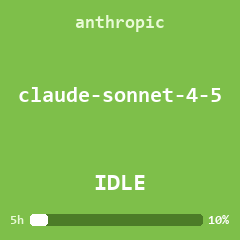
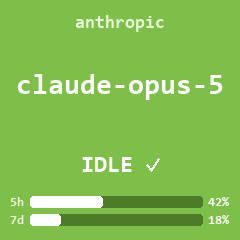
Mark each status with a glyph, and show the real usage figures
The status word now carries a mark: a tick for idle, a question mark for
waiting, and a spinner for working that cycles through / - \ | the way a DOS
loading indicator did.

The spinner is an animated GIF rather than a sequence pushed frame by frame.
The device loops GIFs on its own, so a spinner that turns for an hour costs one
upload; driving it from the daemon would mean tens of thousands of flash writes
in that same hour, on a part with a finite number of erase cycles.

The tick is drawn with lines instead of typed. Checking the font first was
worth it: U+2713 is not in Consolas and would have rendered as an empty box. It
is stroked at the weight of the surrounding text and anchored to the cap box of
the word beside it -- the first attempt centred it in the line box instead,
which sat it visibly below the baseline on the real display.

Usage percentages are no longer rounded to five-point steps. That was there to
keep the frame cache converging, and dropping it means a new upload each time a
figure moves. The trade is deliberate and now written down, along with how to
put the rounding back.

RENDER_VERSION carries these changes, since the filename is derived from the
data and would otherwise keep serving the old artwork. Also fixes gmctl show
and the installer's final check, which built a still JPEG but named it .gif
once the extension started depending on the status.

README screenshots regenerated, with the working state as the animation itself.

diff --git a/geekmagic/render.py b/geekmagic/render.py
@@ -26,11 +26,33 @@ from PIL import Image, ImageDraw, ImageFont
 
 SIZE = 240
 
-# Bumping this invalidates every frame already uploaded to the device.
-RENDER_VERSION = 4
+# Bumping this invalidates every frame already uploaded to the device. Needed
+# whenever the artwork changes without the data behind it changing, since the
+# filename is derived from the data alone.
+RENDER_VERSION = 7
 
-# Rounding step for the usage percentages, in points.
-USAGE_BUCKET = 5
+# Rounding step for the usage percentages, in points. At 1 the bars show the
+# real figure. See the note in frame_key about what that costs.
+USAGE_BUCKET = 1
+
+# The mark drawn beside the status word.
+#
+# "check" is drawn with lines rather than typed, because the obvious character
+# for it (U+2713) is not in Consolas and would come out as an empty box. The
+# rest are plain ASCII, present in every monospace font.
+#
+# working cycles through the four, which is what makes the spinner: the frames
+# become an animated GIF, so the device loops it by itself and nothing is
+# rewritten while it spins.
+STATUS_GLYPHS: dict[str, tuple[str, ...]] = {
+    "idle": ("check",),
+    "waiting": ("?",),
+    "working": ("/", "-", "\\", "|"),
+    "error": ("×",),
+}
+
+# Milliseconds per spinner frame.
+SPINNER_MS = 130
 
 
 @dataclass(frozen=True)
@@ -84,6 +106,18 @@ def _font(size: int, override: str | None = None):
 def _text_size(draw: ImageDraw.ImageDraw, text: str, font) -> tuple[int, int]:
     left, top, right, bottom = draw.textbbox((0, 0), text, font=font)
     return right - left, bottom - top
+
+
+def _cap_box(draw: ImageDraw.ImageDraw, font) -> tuple[int, int]:
+    """Where a capital letter actually sits, as (offset from the draw origin,
+    height).
+
+    PIL places text by the top of its line box, not by the top of the letters,
+    so anything drawn by hand next to a word has to account for that gap or it
+    ends up sitting lower than the text it belongs to.
+    """
+    _, top, _, bottom = draw.textbbox((0, 0), "M", font=font)
+    return top, bottom - top
 
 
 def _wrap(text: str, max_chars: int) -> list[str]:
@@ -190,6 +224,24 @@ def _draw_bar(draw, y: int, label: str, pct: int, style: Style, font_override) -
         )
 
 
+def _draw_check(draw, x: int, y: int, height: int, colour, weight: int) -> None:
+    """A tick drawn to match the surrounding text rather than typed.
+
+    Sized from the cap height of the status word and stroked at the same weight,
+    so it reads as part of the same lettering even though no glyph exists for it.
+    """
+    # Inset from the cap box so the stroke's own thickness does not spill past
+    # the letters it sits next to.
+    draw.line(
+        [
+            (x, y + height * 0.52),
+            (x + height * 0.38, y + height * 0.90),
+            (x + height * 0.90, y + height * 0.10),
+        ],
+        fill=colour, width=weight, joint="curve",
+    )
+
+
 def _usage_buckets(usage: dict | None) -> dict[str, int]:
     """Pull out the already-rounded percentages, skipping absent windows."""
     out: dict[str, int] = {}
@@ -212,6 +264,35 @@ def render(
     status: str,
     usage: dict | None = None,
     font_override: str | None = None,
+) -> Image.Image:
+    """A single still image: the first frame of the sequence."""
+    return render_frames(provider, model, status, usage, font_override)[0]
+
+
+def render_frames(
+    provider: str,
+    model: str,
+    status: str,
+    usage: dict | None = None,
+    font_override: str | None = None,
+) -> list[Image.Image]:
+    """One image per glyph position: a single frame, or four for the spinner."""
+    glyphs = STATUS_GLYPHS.get(status.lower(), ())
+    if not glyphs:
+        return [_render_one(provider, model, status, usage, font_override, None)]
+    return [
+        _render_one(provider, model, status, usage, font_override, glyph)
+        for glyph in glyphs
+    ]
+
+
+def _render_one(
+    provider: str,
+    model: str,
+    status: str,
+    usage: dict | None,
+    font_override: str | None,
+    glyph: str | None,
 ) -> Image.Image:
     style = STYLES.get(status.lower(), DEFAULT_STYLE)
     img = Image.new("RGB", (SIZE, SIZE), style.bg)
@@ -242,17 +323,34 @@ def render(
             y += p_lh
         top_used = y
 
-    # --- status, just above the bars
+    # --- status, just above the bars, with its mark beside it
+    #
+    # The mark is laid out as a fixed-width slot whether or not this frame has
+    # one, so the word does not shift as the spinner turns.
     s_lines, s_font, s_lh = _fit_block(
         draw, status.upper(), inner_w, 32, range(14, 25), font_override
     )
+    char_w, _ = _text_size(draw, "M", s_font)
+    cap_top, cap_h = _cap_box(draw, s_font)
+    slot = char_w * 2 if glyph else 0     # one space plus one character
     s_h = s_lh * len(s_lines)
     gap = 12 if bar_rows else 20
     y = bars_top - gap - s_h
     status_top = y
-    for line in s_lines:
+    for index, line in enumerate(s_lines):
         w, _ = _text_size(draw, line, s_font)
-        draw.text(((SIZE - w) // 2, y), line, font=s_font, fill=style.fg)
+        left = (SIZE - w - slot) // 2
+        draw.text((left, y), line, font=s_font, fill=style.fg)
+        # Only the last line carries the mark, so a wrapped word keeps it at the end.
+        if glyph and index == len(s_lines) - 1:
+            gx = left + w + char_w
+            if glyph == "check":
+                # Aligned to the cap box of the word beside it, so it sits on
+                # the same baseline instead of hanging below.
+                weight = max(2, round(cap_h / 6))
+                _draw_check(draw, gx, y + cap_top, cap_h, style.fg, weight)
+            else:
+                draw.text((gx, y), glyph, font=s_font, fill=style.fg)
         y += s_lh
 
     # --- model, centred in whatever space is left
@@ -269,6 +367,10 @@ def render(
     return img
 
 
+def is_animated(status: str) -> bool:
+    return len(STATUS_GLYPHS.get(status.lower(), ())) > 1
+
+
 def render_jpeg(provider, model, status, usage=None, font_override=None,
                 quality: int = 88) -> bytes:
     buf = io.BytesIO()
@@ -278,10 +380,43 @@ def render_jpeg(provider, model, status, usage=None, font_override=None,
     return buf.getvalue()
 
 
+def render_gif(provider, model, status, usage=None, font_override=None) -> bytes:
+    """An animated GIF of the whole sequence, looping forever.
+
+    The device plays GIFs on its own, so the spinner costs exactly one upload
+    however long it turns. Driving the animation by pushing a frame every tenth
+    of a second would write to the flash thousands of times an hour.
+    """
+    frames = render_frames(provider, model, status, usage, font_override)
+    # A flat palette keeps this small: the artwork is a handful of solid colours.
+    converted = [f.convert("P", palette=Image.ADAPTIVE, colors=32) for f in frames]
+    buf = io.BytesIO()
+    converted[0].save(
+        buf, format="GIF", save_all=True, append_images=converted[1:],
+        duration=SPINNER_MS, loop=0, optimize=True, disposal=1,
+    )
+    return buf.getvalue()
+
+
+def render_bytes(provider, model, status, usage=None, font_override=None,
+                 quality: int = 88) -> bytes:
+    """Whatever this status needs: an animated GIF, or a still JPEG."""
+    if is_animated(status):
+        return render_gif(provider, model, status, usage, font_override)
+    return render_jpeg(provider, model, status, usage, font_override, quality)
+
+
 def frame_key(provider: str, model: str, status: str, usage: dict | None = None) -> str:
-    """Deterministic filename: same contents, same file, so no rewrites."""
+    """Deterministic filename: same contents, same file, so no rewrites.
+
+    With USAGE_BUCKET at 1 the bars carry the real figure, which means a new
+    file each time a percentage moves. That is the trade the exact numbers cost:
+    a handful of uploads an hour instead of almost none. max_cached_frames keeps
+    the pile on the device bounded.
+    """
     bars = _usage_buckets(usage)
     parts = [str(RENDER_VERSION), provider, model, status]
     parts += [f"{k}{v}" for k, v in sorted(bars.items())]
     raw = "|".join(parts).lower()
-    return "ai_" + hashlib.sha1(raw.encode()).hexdigest()[:10] + ".jpg"
+    suffix = ".gif" if is_animated(status) else ".jpg"
+    return "ai_" + hashlib.sha1(raw.encode()).hexdigest()[:10] + suffix

diff --git a/gmctl.py b/gmctl.py
@@ -16,9 +16,13 @@ from pathlib import Path
 
 sys.path.insert(0, str(Path(__file__).parent))
 
+from PIL import Image  # noqa: E402
+
 from geekmagic import config  # noqa: E402
 from geekmagic.device import DeviceError, SmallTVUltra  # noqa: E402
-from geekmagic.render import frame_key, render, render_jpeg  # noqa: E402
+from geekmagic.render import (  # noqa: E402
+    frame_key, is_animated, render, render_bytes, render_frames,
+)
 
 
 def daemon_post(cfg: dict, path: str, payload: dict) -> None:
@@ -62,23 +66,38 @@ def cmd_preview(cfg, args):
     out = Path(args.out)
     usage = usage_from_args(args)
     font = cfg.get("font_path") or None
-    render(args.provider, args.model, args.status, usage, font).save(out)
-    jpeg = render_jpeg(args.provider, args.model, args.status, usage, font)
-    print(f"preview written to {out}  ({len(jpeg)} B as JPEG)")
-    print(f"name on the device: {frame_key(args.provider, args.model, args.status, usage)}")
+    name = frame_key(args.provider, args.model, args.status, usage)
+    blob = render_bytes(args.provider, args.model, args.status, usage, font)
+
+    if is_animated(args.status):
+        # Write the real animation, and the frames side by side to inspect.
+        gif_path = out.with_suffix(".gif")
+        gif_path.write_bytes(blob)
+        frames = render_frames(args.provider, args.model, args.status, usage, font)
+        width = frames[0].width
+        sheet = Image.new("RGB", (width * len(frames), frames[0].height))
+        for i, frame in enumerate(frames):
+            sheet.paste(frame, (i * width, 0))
+        sheet.save(out)
+        print(f"animation written to {gif_path}  ({len(blob)} B, {len(frames)} frames)")
+        print(f"frames side by side in {out}")
+    else:
+        render(args.provider, args.model, args.status, usage, font).save(out)
+        print(f"preview written to {out}  ({len(blob)} B)")
+    print(f"name on the device: {name}")
 
 
 def cmd_show(cfg, args):
     """Bypass the daemon and write straight to the device."""
-    dev = SmallTVUltra(cfg["device_host"])
+    dev = SmallTVUltra(cfg["device_host"], timeout=20.0, retries=4)
     usage = usage_from_args(args)
     font = cfg.get("font_path") or None
     name = frame_key(args.provider, args.model, args.status, usage)
-    jpeg = render_jpeg(args.provider, args.model, args.status, usage, font)
+    blob = render_bytes(args.provider, args.model, args.status, usage, font)
     existing = {f["name"] for f in dev.list_files("/image")}
     if name not in existing:
-        print(f"uploading {name} ({len(jpeg)} B) ...")
-        dev.upload("/image", name, jpeg)
+        print(f"uploading {name} ({len(blob)} B) ...")
+        dev.upload("/image", name, blob)
     dev.set_autoplay(False)
     dev.set_theme(3)
     dev.show_image(f"/image/{name}")

diff --git a/install.py b/install.py
@@ -312,17 +312,17 @@ def step_test(host: str) -> None:
         return
 
     from geekmagic.device import DeviceError, SmallTVUltra
-    from geekmagic.render import frame_key, render_jpeg
+    from geekmagic.render import frame_key, render_bytes
 
-    dev = SmallTVUltra(host, timeout=15.0, retries=4)
+    dev = SmallTVUltra(host, timeout=20.0, retries=4)
     try:
         theme_before = dev.get_theme()
         album = dev.get_album()
         usage = {"five_hour": {"used_percentage": 40}}
         name = frame_key("anthropic", "install-test", "working", usage)
-        jpeg = render_jpeg("anthropic", "install-test", "working", usage)
+        blob = render_bytes("anthropic", "install-test", "working", usage)
         if name not in {f["name"] for f in dev.list_files("/image")}:
-            dev.upload("/image", name, jpeg)
+            dev.upload("/image", name, blob)
         dev.set_autoplay(False, int(album.get("i_i", 10)))
         dev.set_theme(3)
         dev.show_image(f"/image/{name}")
@@ -331,7 +331,7 @@ def step_test(host: str) -> None:
         return
 
     print()
-    seen = ask("Do you see an orange screen with a progress bar on the device?")
+    seen = ask("Do you see an orange screen with a spinning mark and a bar?")
     time.sleep(1)
     try:
         dev.delete(f"/image/{name}")

diff --git a/geekmagic/daemon.py b/geekmagic/daemon.py
@@ -24,7 +24,7 @@ from pathlib import Path
 
 from .apps import BUILTIN_APPS, AppDetector, rules_from_config
 from .device import THEME_PHOTO_ALBUM, DeviceError, SmallTVUltra
-from .render import frame_key, render_jpeg
+from .render import frame_key, render_bytes
 from .usage import AccountUsage
 from .watcher import TranscriptWatcher
 
@@ -399,14 +399,16 @@ class Controller:
         name = frame_key(provider, model, status, usage)
         path = f"{IMAGE_DIR}/{name}"
         if name not in self.known_frames:
-            jpeg = render_jpeg(
+            # An animated status comes back as a looping GIF, which the device
+            # plays by itself; everything else is a still JPEG.
+            blob = render_bytes(
                 provider, model, status, usage,
                 self.cfg.get("font_path") or None,
                 quality=self.cfg.get("jpeg_quality", 88),
             )
             log.info("uploading frame %s (%d B) %s/%s/%s",
-                     name, len(jpeg), provider, model, status)
-            self.dev.upload(IMAGE_DIR, name, jpeg)
+                     name, len(blob), provider, model, status)
+            self.dev.upload(IMAGE_DIR, name, blob)
             self.known_frames[name] = time.time()
             self._gc_frames()
             self._save_known()
